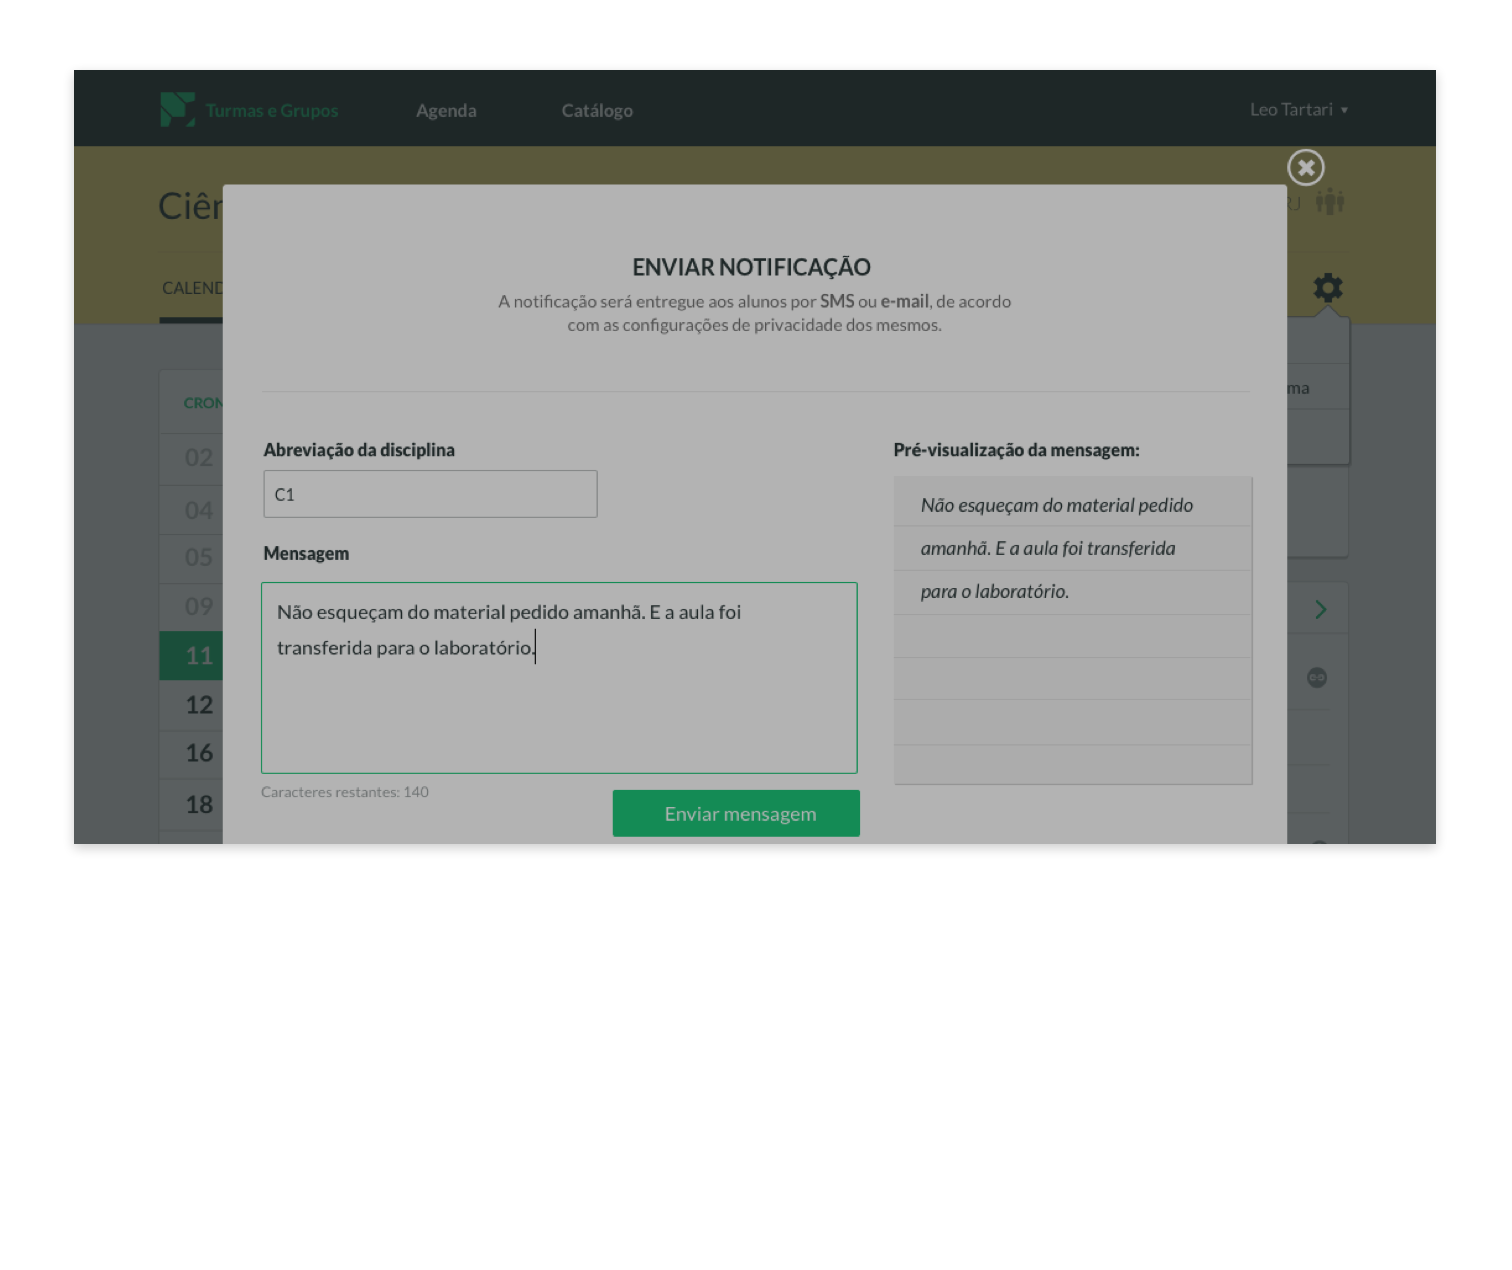
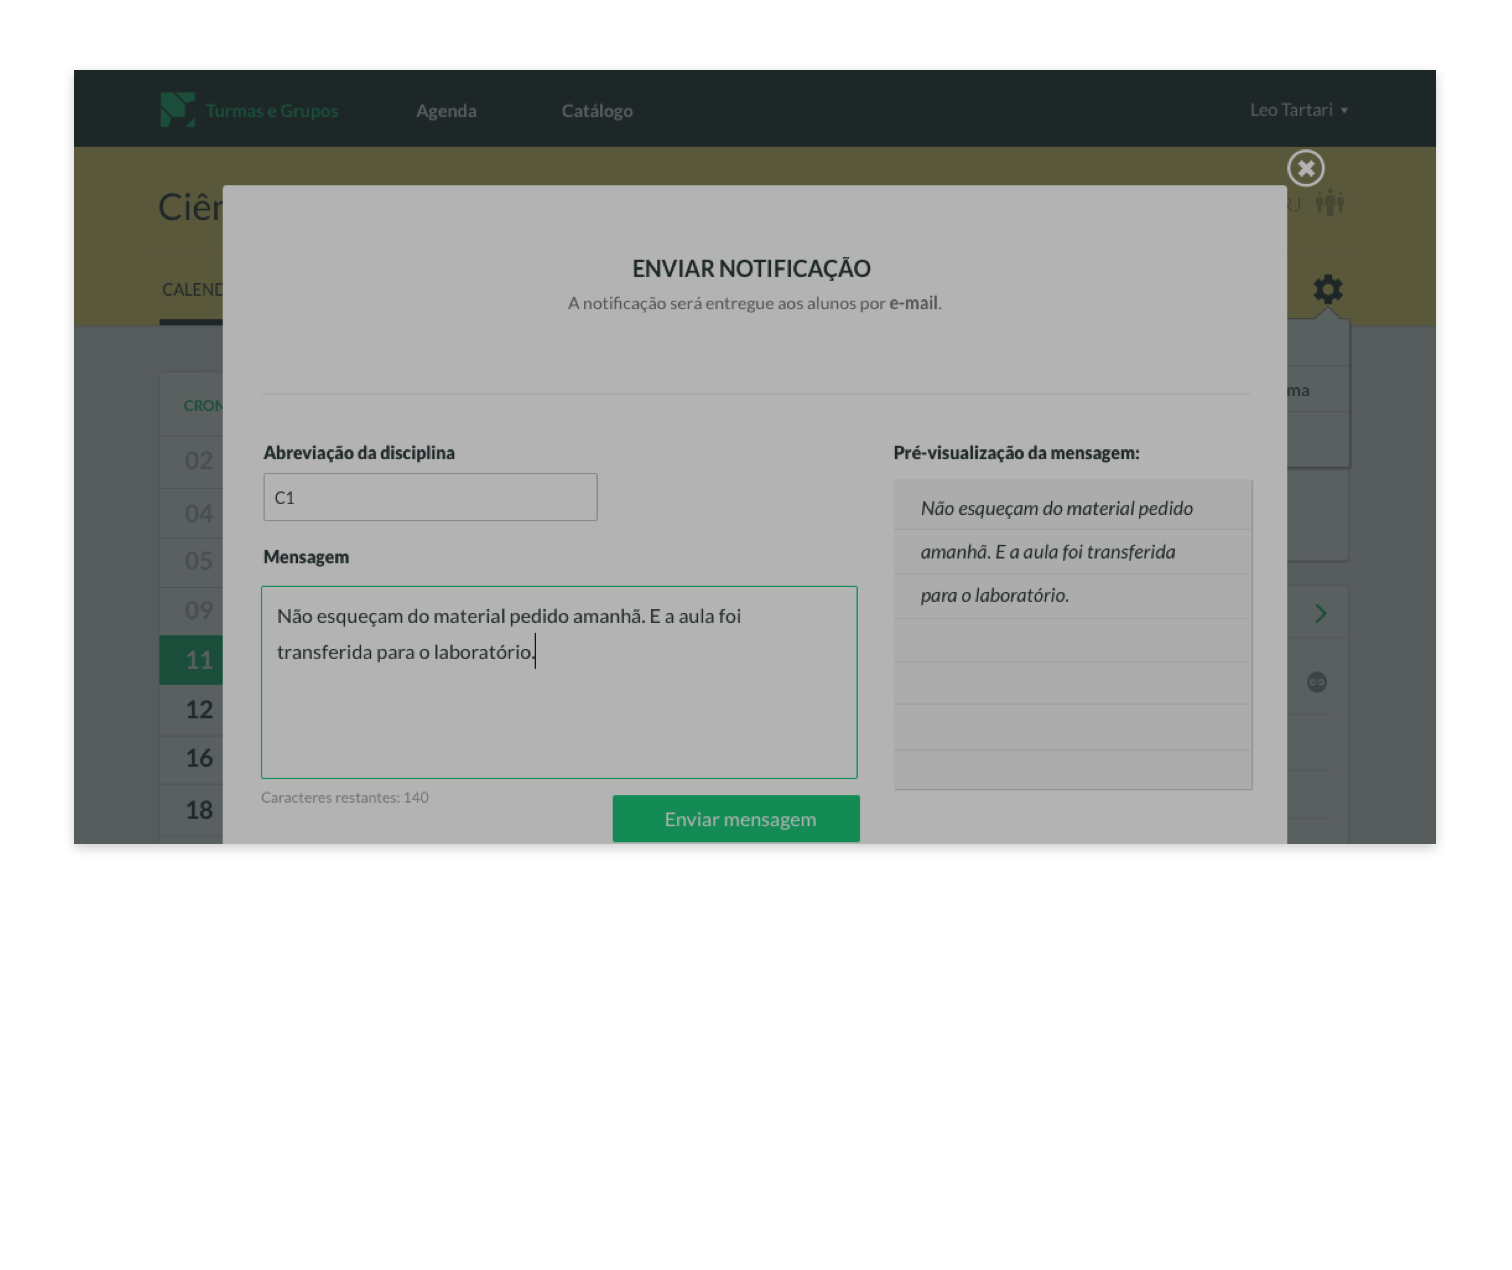
Remove mention to SMS from images and system.

diff --git a/app/controllers/home_controller.rb b/app/controllers/home_controller.rb
@@ -2,7 +2,7 @@ class HomeController < ApplicationController
   def home
     @features = [
       {
-        description: 'Envie lembretes por SMS e e-mail.',
+        description: 'Envie lembretes por e-mail.',
         icon: 'icon-buzz'
       }, {
         description: 'Tenha uma visão geral das suas aulas.',
@@ -20,7 +20,7 @@ class HomeController < ApplicationController
         title: 'Notifique seus estudantes.',
         content: [
           'Tem um novo material importante, não terá uma aula ou você só quer relembrar seus estudantes do trabalho que é para a semana que vem?',
-          'Envie uma mensagem para os estudantes através do Dunno, e eles escolhem se receberão por SMS, e-mail ou ambos.'
+          'Envie uma mensagem para os estudantes através do Dunno, e eles receberão por e-mail.'
         ]
       }, {
         title: 'Seu diário, suas escolhas.',
